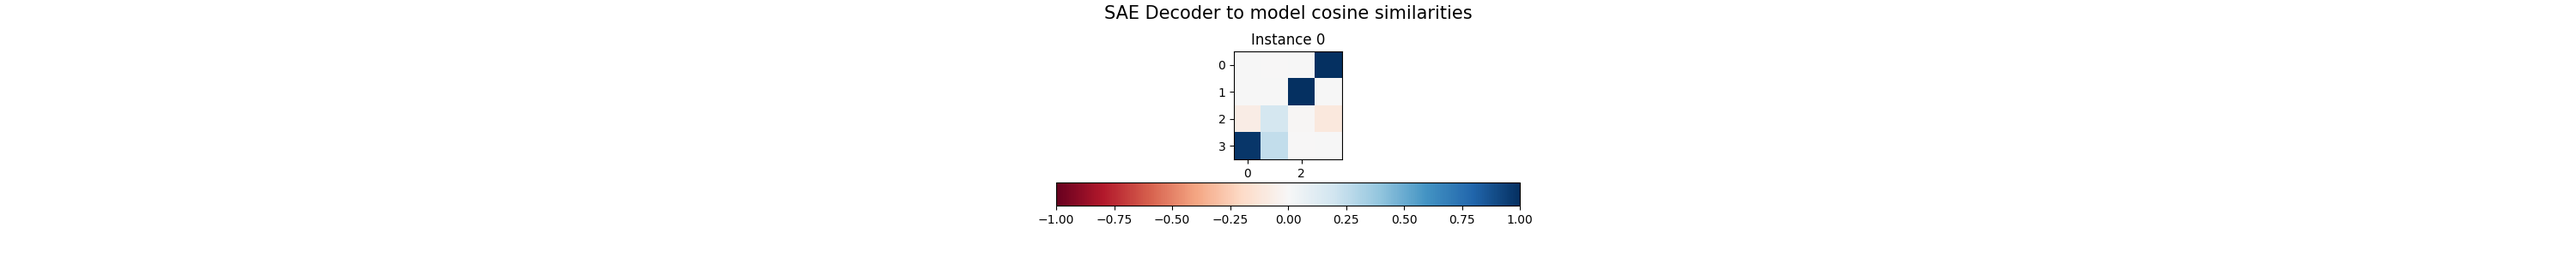
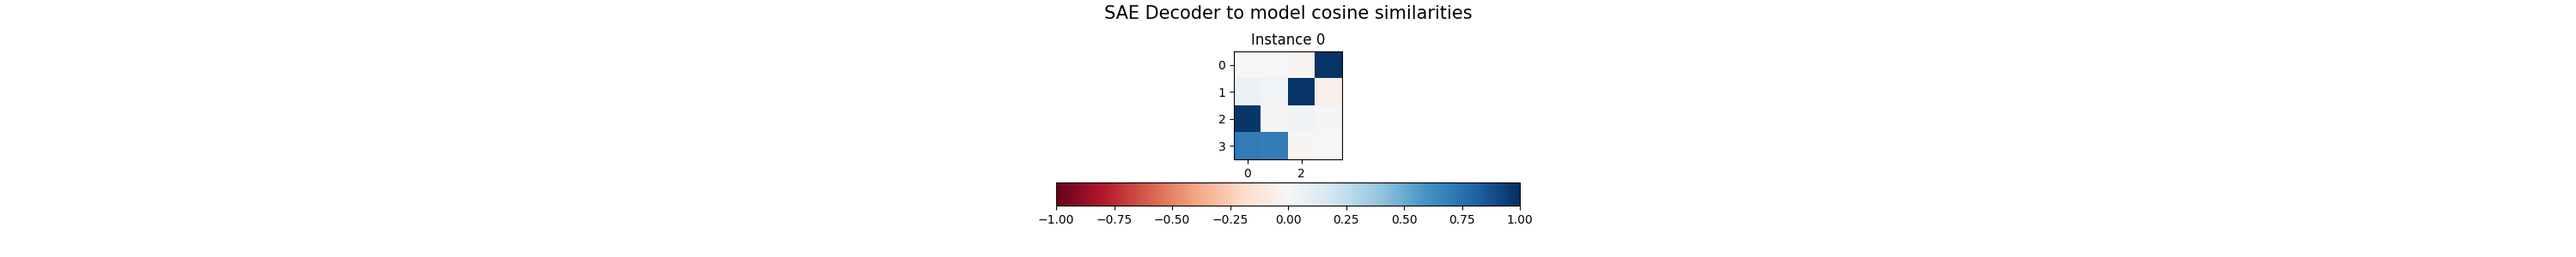
fix feature absorption demo

Changed region(s): [[0.465, 0.39, 0.527, 0.63]]

diff --git a/experiments/feature_absorption/run.py b/experiments/feature_absorption/run.py
@@ -18,7 +18,7 @@ import einops
 from dataclasses import dataclass
 from jaxtyping import Float
 
-from tms.data import DataGenerator, ModelActivationsGenerator, IIDFeatureGenerator
+from tms.data import DataGenerator, ModelActivationsGenerator
 from tms.loss import ImportanceWeightedLoss
 from tms.model import Model
 from tms.optimize import optimize, optimize_vanilla_sae
@@ -41,16 +41,14 @@ from rich.text import Text
 MAIN = __name__ == "__main__"
 
 class IIDConstantFeatureGenerator(DataGenerator):
-    """Generates features where all features are constant"""
 
     def generate_batch(self, batch_size: int) -> torch.Tensor:
         """
         Generates a batch of data.
         """
         batch_shape = (batch_size, self.n_inst, self.n_features)
-        feat_seeds = torch.rand(batch_shape, device=get_device())
-        # NOTE: Magnitude fixed to be 1
         feat_mag = torch.ones(batch_shape, device=get_device())
+        feat_seeds = torch.rand(batch_shape, device=get_device())
         feat_vals = torch.where(feat_seeds <= self.feature_probability, feat_mag, 0.0)
         return feat_vals
 
@@ -62,7 +60,6 @@ class HierarchicalConstantFeatureGenerator(DataGenerator):
         Generates a batch of data.
         """
         batch_shape = (batch_size, self.n_inst, self.n_features)
-        # NOTE: Magnitude fixed to be 1
         feat_mag = torch.ones(batch_shape, device=get_device())
         feat_seeds = torch.rand(batch_shape, device=get_device())
         feat_vals = torch.where(feat_seeds <= self.feature_probability, feat_mag, 0.0)
@@ -78,7 +75,7 @@ class FeatureAbsorptionTMSConfig:
     n_features: int
     feature_probability: Float[torch.Tensor, "inst feats"]
     feature_importance: Float[torch.Tensor, "inst feats"]
-    data_gen_cls: type[DataGenerator] = IIDFeatureGenerator
+    data_gen_cls: type[DataGenerator]
 
 
 class FeatureAbsorptionTMS(TMS):
@@ -288,15 +285,13 @@ def run_experiment(config: FeatureAbsorptionTMSConfig, expt_prefix: str = ""):
     # Train an SAE on the TMS
     d_sae = config.n_features
     sae = VanillaSAE(config.n_inst, config.d_hidden, d_sae, device=device)
-    init.kaiming_uniform_(sae.W_dec, mode='fan_in', nonlinearity='relu')
-    init.kaiming_uniform_(sae.W_enc, mode='fan_in', nonlinearity='relu')
     data_gen = ModelActivationsGenerator(tms.model, tms.data_gen)
 
     # NOTE on number of training steps. 
     # - Original implementation trains on 100M tokens
     # - Here we train on 25K steps of 1024 * 4 tokens each 
     # - This is equivalent to 100M tokens
-    optimize_vanilla_sae(sae, data_gen, steps = 25_000, batch_size=1024)
+    optimize_vanilla_sae(sae, data_gen, steps = 25_000, l1_coeff=0.005, resample_method = "simple")
 
     # Print the SAE activations on test data
     x_test = torch.tensor(
